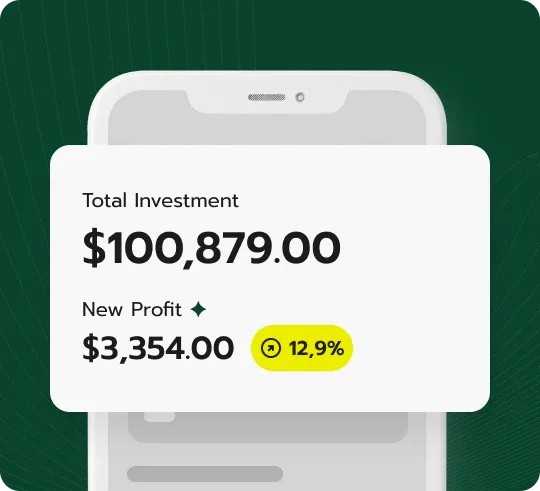
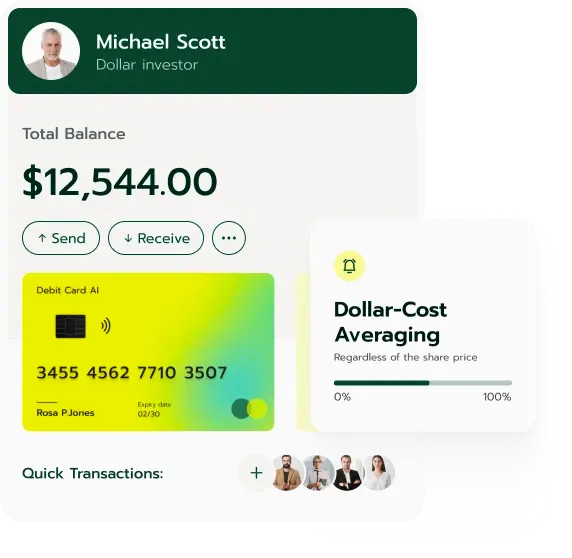
Move live ticker below hero, remove marquee band, swap About images, add alt text

diff --git a/src/pages/Home.jsx b/src/pages/Home.jsx
@@ -5,7 +5,6 @@ import Accordion from '../components/Accordion'
 import IntelligenceGrid from '../components/IntelligenceGrid'
 import Testimonials from '../components/Testimonials'
 import CtaSection from '../components/CtaSection'
-import MarqueeBand from '../components/MarqueeBand'
 import ActivityTicker from '../components/ActivityTicker'
 import Reveal from '../components/Reveal'
 import CountUp from '../components/CountUp'
@@ -66,16 +65,8 @@ export default function Home() {
         </div>
       </section>
 
-      <MarqueeBand
-        items={[
-          'Real-time signals',
-          'AI market insights',
-          'Copy trading',
-          '24/7 monitoring',
-          'Secure channels',
-        ]}
-        ariaLabel="Platform capabilities"
-      />
+      {/* Live market ticker — right below the hero */}
+      <ActivityTicker />
 
       {/* 01 — Engine */}
       <FeatureSection
@@ -97,7 +88,7 @@ export default function Home() {
           'Copy trading with proven approaches',
         ]}
         image="/images/feature-engine.webp"
-        imageAlt="Gem Wealthholm capital growth"
+        imageAlt="Gem Wealthholm AI engine dashboard showing live market analysis and trading signals"
         cta={{ to: '/about-us', label: 'Learn more about us' }}
       />
 
@@ -240,13 +231,10 @@ export default function Home() {
           'Adaptive models, refreshed continuously',
         ]}
         image="/images/feature-analytics.webp"
-        imageAlt="Gem Wealthholm digital investment analytics"
+        imageAlt="Gem Wealthholm digital investment analytics and market performance charts"
         flip
         cta={{ to: '/faqs', label: 'Read the FAQ' }}
       />
-
-      {/* Live market ticker — leads into the markets section */}
-      <ActivityTicker />
 
       {/* 06 — Markets */}
       <section className="section section--rule">

diff --git a/src/styles/components.css b/src/styles/components.css
@@ -257,7 +257,6 @@
   to { transform: translateX(-50%); }
 }
 
-.marquee-band__track,
 .ticker__track {
   will-change: transform;
 }
@@ -271,7 +270,6 @@
     -webkit-backdrop-filter: none;
   }
 
-  .marquee-band__track,
   .ticker__track {
     will-change: auto;
   }
@@ -302,66 +300,6 @@
 
 .ticker__change--up { color: var(--emerald); }
 .ticker__change--down { color: #c0392b; }
-
-/* Tilted marquee band ------------------------------------------------- */
-
-.marquee-band {
-  position: relative;
-  z-index: 5;
-  margin: -28px 0 0;
-  transform: rotate(-1.4deg) scale(1.03);
-  background: var(--lime);
-  border-top: 1px solid var(--ink);
-  border-bottom: 1px solid var(--ink);
-  overflow: hidden;
-}
-
-.marquee-band__track {
-  display: flex;
-  align-items: center;
-  gap: 0;
-  width: max-content;
-  padding: 16px 0;
-  animation: marquee 30s linear infinite;
-}
-
-.marquee-band__item {
-  display: inline-flex;
-  align-items: center;
-  gap: 28px;
-  padding: 0 28px;
-  font-family: var(--font-mono);
-  font-size: 14px;
-  font-weight: 700;
-  letter-spacing: 0.18em;
-  text-transform: uppercase;
-  color: var(--ink);
-  white-space: nowrap;
-}
-
-.marquee-band__item::after {
-  content: '◆';
-  font-size: 11px;
-  margin-left: 28px;
-}
-
-.marquee-band--ink {
-  background: var(--ink);
-  border-color: var(--ink);
-  margin: -28px 0 0;
-  transform: rotate(-1.4deg) scale(1.03);
-}
-
-.marquee-band--ink .marquee-band__item {
-  color: var(--lime);
-}
-
-@media (max-width: 767px) {
-  .marquee-band__item {
-    font-size: 12px;
-    gap: 18px;
-  }
-}
 
 /* Hero ------------------------------------------------------------------ */
 

diff --git a/src/pages/About.jsx b/src/pages/About.jsx
@@ -43,8 +43,8 @@ export default function About() {
           'Adaptive models, not stale indicators',
           'Built for beginners and experienced users alike',
         ]}
-        image="/images/feature-mission.webp"
-        imageAlt="Gem Wealthholm smarter investing"
+        image="/images/feature-protection.webp"
+        imageAlt="Gem Wealthholm platform features for smarter investing with AI technology"
       />
 
       {/* Values */}
@@ -103,8 +103,8 @@ export default function About() {
           'Managed access and protected data',
           'Human judgement stays at the centre',
         ]}
-        image="/images/feature-protection.webp"
-        imageAlt="Gem Wealthholm security and protection"
+        image="/images/feature-mission.webp"
+        imageAlt="Gem Wealthholm security and protection for safe online investing"
         flip
       />
     </>
